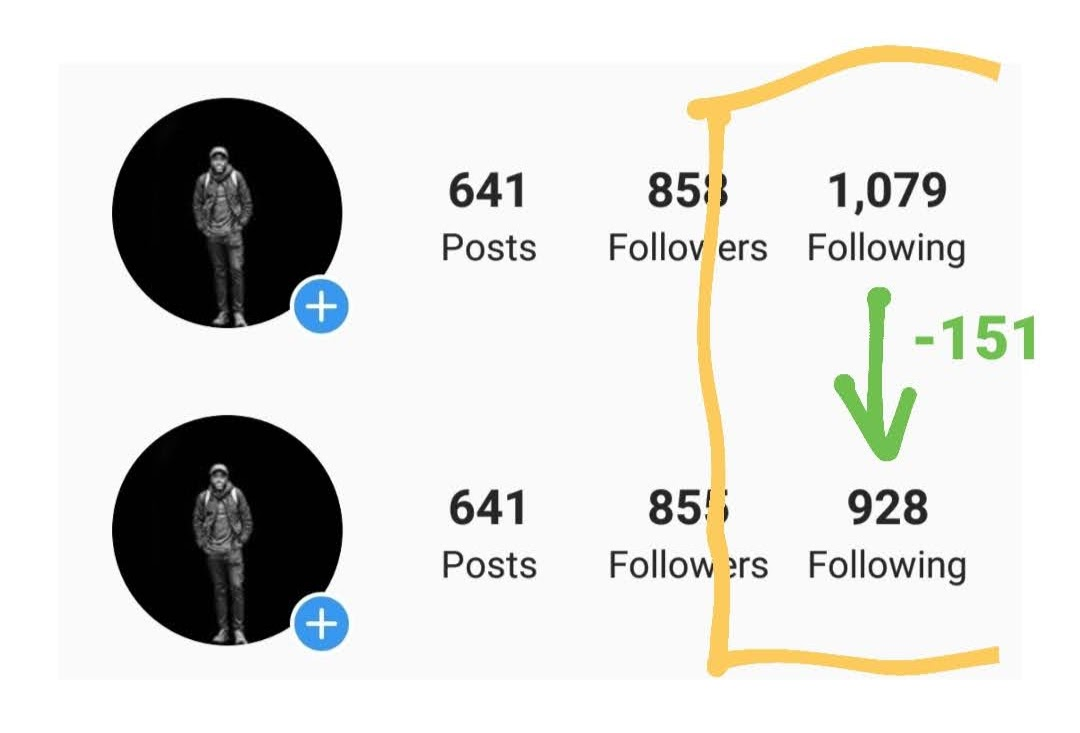
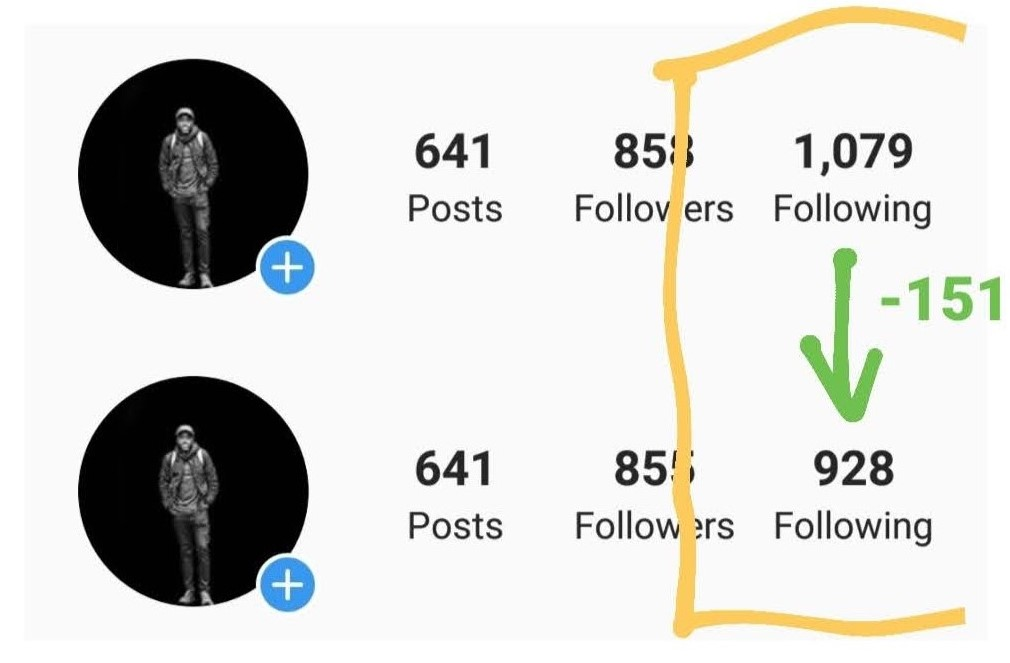
remove Google+ share; minor fixes

diff --git a/_includes/share-buttons.html b/_includes/share-buttons.html
@@ -1,21 +1,12 @@
 <div class="row social-share" id="social-share-buttons">
-  <div class="twitter col-sm-3 col-xs-6">
+  <div class="facebook col-sm-4 col-xs-6">
+    <iframe src="https://www.facebook.com/plugins/like.php?href={{ site.url }}{{ page.url }}&amp;show_faces=false&amp;layout=button_count&amp;share=true" scrolling="no" frameborder="0" style="height: 21px; width: 160px;" allowTransparency="true"></iframe>
+  </div>
+  <div class="twitter col-sm-4 col-xs-6">
     <a href="https://twitter.com/intent/tweet?text={{ page.title | url_encode }}+{{ site.url }}{{ page.url }}+%23EusebiusTech" class="twitter-share-button" data-hashtags="EusebiusTech" data-show-count="true">Tweet</a>
     <script async src="//platform.twitter.com/widgets.js" charset="utf-8"></script>  
   </div>
-  <div class="facebook col-sm-3 col-xs-6">
-    <iframe src="https://www.facebook.com/plugins/like.php?href={{ site.url }}{{ page.url }}&amp;show_faces=false&amp;layout=button_count&amp;share=true" scrolling="no" frameborder="0" style="height: 21px; width: 160px;" allowTransparency="true"></iframe>
-  </div>
-  <div class="google col-sm-3 col-xs-6">
-    <script src="https://apis.google.com/js/platform.js" async defer>{lang: 'en-GB'}</script>
-    <g:plusone size="medium" href="{{ site.url }}{{ page.url }}"></g:plusone>
-    <noscript>
-      <a href="https://plus.google.com/share?url={{ site.url }}{{ page.url }}" title="Share on Google+">
-        <span>Google+ share</span>
-      </a>
-    </noscript>
-  </div>
-  <div class="linkedin col-sm-3 col-xs-6">
+  <div class="linkedin col-sm-4 col-xs-6">
     <script src="//platform.linkedin.com/in.js" type="text/javascript"> lang: en_US</script>
     <script type="IN/Share" data-url="{{ site.url }}{{ page.url }}" data-counter="right"></script>
     <noscript>

diff --git a/projects/instagram-lists/index.md b/projects/instagram-lists/index.md
@@ -17,12 +17,12 @@ js:
   - index.js
 ---
 
-This tool helped me clean up 151 of the 1079 accounts I used to follow on Instagram.
+This tool helped me clean up the accounts I used to follow on Instagram.
 I could sort the accounts I follow by details like when they last posted.
 
 ![Number of accounts I follow reduced from 1079 to 928, a reduction of 151](/img/projects/instagram-lists/my-result.jpg){:.golden-width}
 
-This would not be possible with Instagram's official APIs so here we use their **unofficial, internal APIs**.
+This would not be possible with Instagram's official <a href="https://en.wikipedia.org/wiki/API"><abbr title="Application Programming Interface">API</abbr></a>s so here we use their **unofficial, internal APIs**.
 We are using something that wasn't designed for us to easily use.
 As you will see, it's a _hack_ but you will be guided step-by-step.
 
@@ -58,6 +58,8 @@ There are two stages:
       - are they verified?
       - have they joined recently?
     - **Warning**: Due to the possibly large number of requests, the Instagram app might ask you to [verify](/raw/img/projects/instagram-lists/instagram-verify.jpg) your identity via email or phone number.
+
+This tool doesn't unfollow accounts for you, you will have to open the linked Instagram profiles to unfollow.
 
 ### Legal disclaimer
 
@@ -544,3 +546,5 @@ Your data is stored in this browser tab, even after refreshing, until the tab is
 I'd love to know what you think of this tool. You can leave a comment below or [contact me](/contact).
 
 [Source code](https://github.com/eugenius1/eugenius1.github.io/tree/master/projects/instagram-lists)
+&bull;
+[How I built this tool](/blog/i-built-a-tool-to-use-instagrams-unofficial-apis/)

diff --git a/_posts/2021-04-05-i-built-a-tool-to-use-instagrams-unofficial-apis.md b/_posts/2021-04-05-i-built-a-tool-to-use-instagrams-unofficial-apis.md
@@ -4,7 +4,6 @@ title: I built a tool to use Instagram's unofficial APIs!
 subtitle: It shows detailed, sortable lists of your Instagram followings and followers
 ---
 
-<!-- TODO: share-img -->
 **<abbr title="Too long; didn't read">TL;DR</abbr>**:
 The tool is [Instagram Lists](https://eusebius.tech/projects/instagram-lists/) and it empowered me to cleanup the accounts I follow.
 Source code is [here](https://github.com/eugenius1/eugenius1.github.io/tree/master/projects/instagram-lists).
